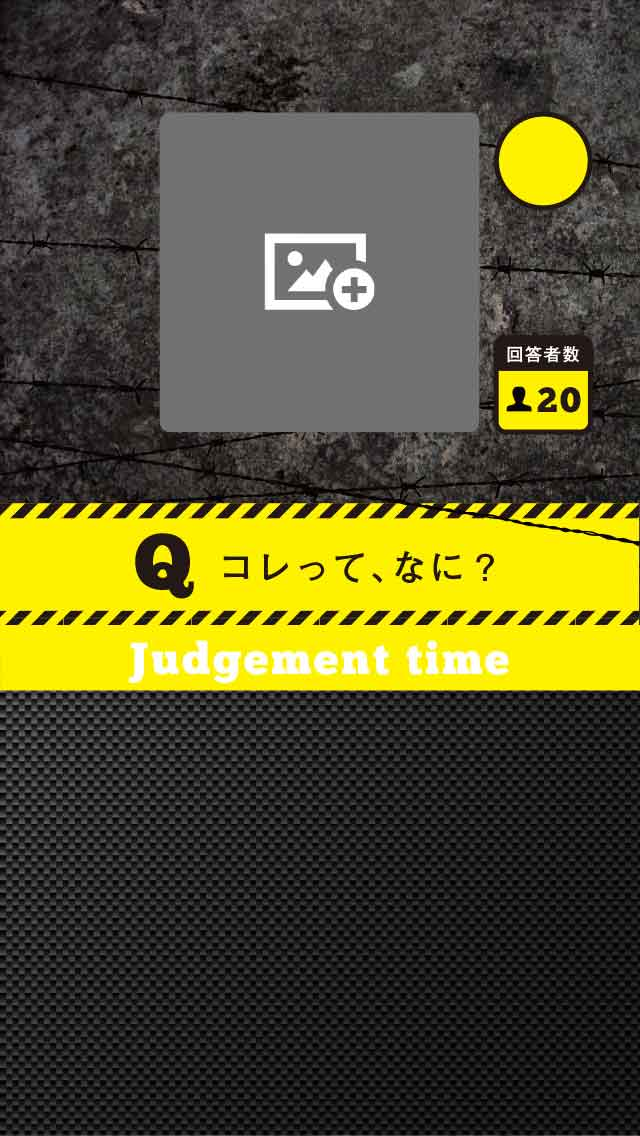
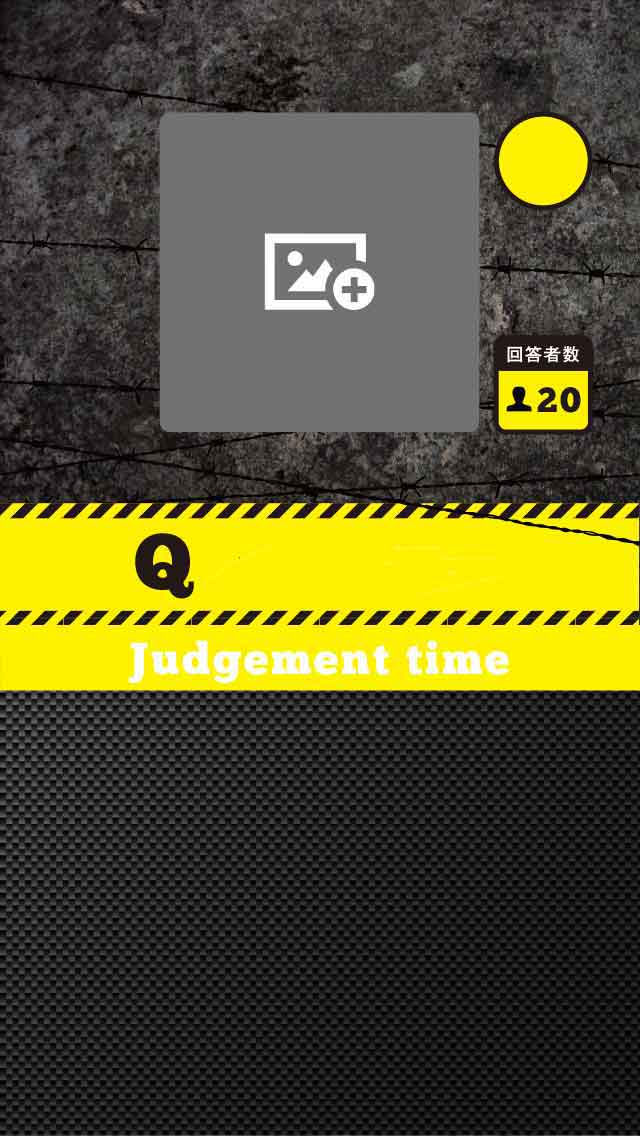
final commit !?

Changed region(s): [[0.3438, 0.4621, 0.7188, 0.5238], [0.75, 0.4621, 0.7812, 0.5238]]

diff --git a/server/public/js/ask.js b/server/public/js/ask.js
@@ -38,4 +38,26 @@ $(function() {
         $("#answer").append("<li>" + data.name + ": " + data.text + "(aid: " + data.aid + ")</li>");
     });
 
+    $("#button").click(function() {
+        socket.emit('ask', {
+            'name': 'Mario',
+            'text': 'How to use it?',
+            'url': 'http://49.212.129.143:5000/assets/washletbig.jpg'
+        });
+
+        socket.emit('ask', {
+            'name': 'Mario',
+            'text': 'What is it?',
+            'url': 'http://49.212.129.143:5000/assets/manekineko.jpg'
+        });
+
+        socket.emit('ask', {
+            'name': 'Mario',
+            'text': 'What are they doing?',
+            'url': 'http://49.212.129.143:5000/assets/tachiyomi.jpg'
+        });
+
+    })
+
+
 })

diff --git a/server/public/inner.css b/server/public/inner.css
@@ -76,8 +76,8 @@ body {
 
 #questionText{
 	position: absolute;
-	left: 100px;
-	top: 250px;
+	left: 115px;
+	top: 270px;
 	font-size: 1.2em;
 	font-weight: bold;
 	font-family: sans-serif;
